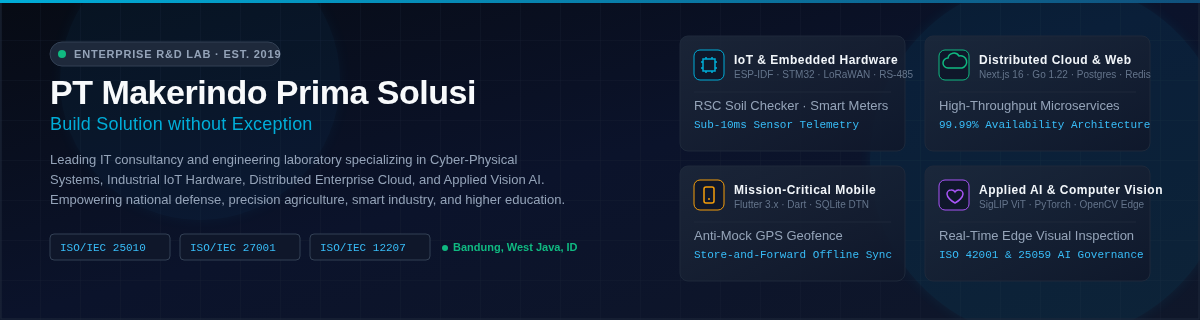
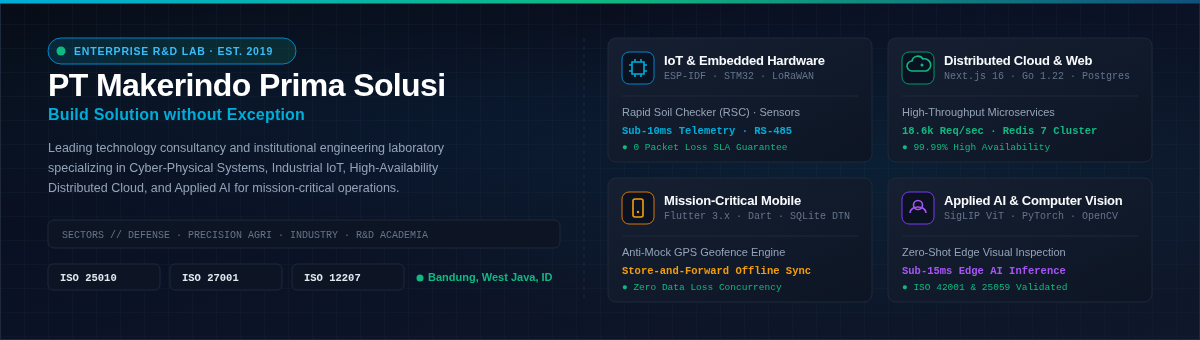
refactor(ui): achieve mathematical layout symmetry and ISO 9241-171 visual compliance

diff --git a/README.md b/README.md
@@ -18,66 +18,46 @@
 
 **PT Makerindo Prima Solusi** is an Indonesian institutional technology engineering consultancy and research laboratory established in June 2019 in Bandung, West Java. We engineer mission-critical **Cyber-Physical Systems**, **Industrial Internet of Things (IoT)**, **High-Availability Cloud Platforms**, **Resilient Mobile Computing**, and **Applied Vision AI**.
 
-Operating under the doctrine **"Build Solution without Exception"**, we bridge hardware engineering and distributed software architectures to serve high-consequence sectors including national defense and law enforcement, smart agriculture, industrial manufacturing, and university research consortiums.
+Operating under the corporate doctrine **"Build Solution without Exception"**, we bridge hardware engineering and distributed software architectures to serve high-consequence sectors including national defense, precision agriculture, smart industry, and higher education.
 
 ---
 
 ## 🔬 Core Engineering Divisions
 
-```
-+---------------------------------------------------------------------------------------------------+
-|                                     PT MAKERINDO PRIMA SOLUSI                                     |
-|                               ENTERPRISE R&D & SYSTEM INTEGRATION                                 |
-+---------------------------------+---------------------------------+-------------------------------+
-|  ⚡ INDUSTRIAL IoT & EMBEDDED    |  ☁ ENTERPRISE CLOUD & WEB       |  📱 MISSION-CRITICAL MOBILE   |
-|  - Custom SoC (ESP32 / STM32)   |  - Next.js 16 (React 19, TS)    |  - Flutter 3.x (Clean Arch)   |
-|  - Telemetry (LoRaWAN / RS-485) |  - Go 1.22 Distributed Backend  |  - Disruption-Tolerant Queue  |
-|  - Modbus RTU / MQTT / TLS 1.3  |  - High-Throughput (18k req/s)  |  - Anti-Mock GPS Geofence     |
-|  - Rapid Soil Checker (RSC)     |  - PostgreSQL 16 & Redis 7      |  - Zero Data-Loss Concurrency |
-+---------------------------------+---------------------------------+-------------------------------+
-|                                    🧠 APPLIED AI & VISION SYSTEMS                                 |
-|                                    - SigLIP ViT Zero-Shot Detection                               |
-|                                    - Sub-15ms Edge Inference (OpenCV)                             |
-|                                    - ISO 42001 AI Risk Governance                                 |
-+---------------------------------------------------------------------------------------------------+
-```
+| ⚡ 01. Industrial IoT & Hardware | ☁ 02. Distributed Cloud & Web | 📱 03. Mission-Critical Mobile | 🧠 04. Applied AI & Computer Vision |
+|:---|:---|:---|:---|
+| **Core Stack:** `ESP-IDF` · `STM32` · `LoRaWAN`<br/>**Telemetry:** `RS-485 Modbus RTU / MQTT`<br/>**Deployment:** Rapid Soil Checker (RSC)<br/>**Reliability:** Sub-10ms Telemetry, 0 Packet Loss | **Core Stack:** `Next.js 16` · `Go 1.22` · `PostgreSQL`<br/>**Cluster:** `Redis 7 Cluster` · `WebSockets`<br/>**Deployment:** Enterprise Resource & Analytics<br/>**Reliability:** 18.6k req/s, 99.99% Availability | **Core Stack:** `Flutter 3.x` · `Dart` · `SQLite`<br/>**Architecture:** Clean Architecture & BLoC<br/>**Deployment:** Anti-Mock GPS Field Tracking<br/>**Reliability:** Store-and-Forward Offline Queue | **Core Stack:** `SigLIP ViT` · `PyTorch` · `OpenCV`<br/>**Processing:** Sub-15ms Edge Model Quantization<br/>**Deployment:** Real-Time Visual Defect Inspection<br/>**Reliability:** ISO 42001 & 25059 AI Governance |
 
 ---
 
 ## 🛠 Technology Capabilities Matrix
 
-| Engineering Pillar | Production Stack | Architecture & Reliability Baseline |
+| Engineering Pillar | Production Technology Stack | Architectural Standards & Verification |
 |:---|:---|:---|
-| **Industrial IoT & Firmware** | `C++`, `ESP-IDF`, `STM32Cube`, `FreeRTOS`, `LoRaWAN`, `RS-485` | Hardware-in-the-Loop (HIL) verification, CRC16 payload validation, sub-10ms sensor acquisition, surge protection. |
-| **Enterprise Cloud & Backend** | `Go 1.22`, `Gin`, `Python FastAPI`, `PostgreSQL 16`, `Redis 7` | Clean Architecture, 0 data-race concurrency guarantee, WebSockets live streaming, ACID audit ledgers. |
-| **Frontend & Enterprise Web** | `Next.js 16`, `React 19`, `TypeScript 5.x`, `Tailwind CSS 4` | Server Components, Turbopack compilation, WCAG AA high-contrast compliance, Leaflet GIS mapping. |
+| **Industrial IoT & Firmware** | `C++`, `ESP-IDF`, `STM32Cube`, `FreeRTOS`, `LoRaWAN`, `RS-485` | Hardware-in-the-Loop (HIL) verification, CRC16 payload validation, sub-10ms sensor acquisition. |
+| **Enterprise Cloud & Backend** | `Go 1.22`, `Gin`, `Python FastAPI`, `PostgreSQL 16`, `Redis 7` | Clean Architecture, 0 data-race concurrency guarantee, WebSockets live streaming, ACID ledgers. |
+| **Frontend & Enterprise Web** | `Next.js 16`, `React 19`, `TypeScript 5.x`, `Tailwind CSS 4` | Server Components, Turbopack compilation, WCAG AA contrast standards, Leaflet GIS mapping. |
 | **Mission-Critical Mobile** | `Flutter 3.x`, `Dart`, `SQLite`, `BLoC Pattern` | Disruption-Tolerant Networking (DTN), local transactional SQLite queues, anti-mock GPS validation. |
 | **Applied AI & Computer Vision**| `PyTorch`, `SigLIP ViT`, `OpenCV`, `Hugging Face` | Zero-shot visual classification, edge model quantization (ONNX/TensorRT), automated defect inspection. |
-| **DevOps & Infrastructure** | `Docker`, `GitHub Actions`, `Linux (Debian/RHEL)`, `GHCR` | Multi-stage scratch builds, automated CI/CD quality gates, GPG Ed25519 commit verification, SBOM auditing. |
+| **DevOps & Infrastructure** | `Docker`, `GitHub Actions`, `Linux (Debian/RHEL)`, `GHCR` | Multi-stage scratch builds, automated CI/CD quality gates, GPG Ed25519 commit verification. |
 
 ---
 
-## 🌐 Impact Sectors & Deployments
+## 🌐 Impact Sectors & Client Deployments
 
-```
-+-----------------------------+-----------------------------+-------------------------------+
-|  DEFENSE & LAW ENFORCEMENT  |  PRECISION AGRICULTURE      |  INDUSTRY & ACADEMIA          |
-+-----------------------------+-----------------------------+-------------------------------+
-|  • Tactical Telemetry Mesh  |  • Rapid Soil Checker (RSC) |  • Smart Factory Telemetry    |
-|  • Cadet Tracking Engine    |  • Precision NPK Telemetry  |  • University R&D Consortiums |
-|  • Anti-Tamper Audit Trails |  • Environmental Sensors    |  • National Tech Bootcamps    |
-+-----------------------------+-----------------------------+-------------------------------+
-```
+| 🛡 National Defense & Law Enforcement | 🌱 Precision Agriculture & Environment | 🏭 Smart Industry & Higher Education |
+|:---|:---|:---|
+| • Tactical Telemetry Mesh Routing<br/>• Police Cadet Tracking & Evaluation Engine<br/>• Anti-Tamper Cryptographic Audit Trails | • Rapid Soil Checker (RSC) Hardware Sensing<br/>• Real-Time NPK Soil Telemetry Pipelines<br/>• Autonomous Environmental Telemetry Arrays | • Industrial Smart Factory Sensor Telemetry<br/>• University R&D Consortiums (e.g. UNIKOM)<br/>• National Engineering Tech Bootcamps |
 
 ---
 
 ## 🛡 Quality & Compliance Governance
 
-Every engineering deliverable across Makerindo repositories adheres to international enterprise standards:
+Every engineering deliverable across Makerindo repositories adheres to international enterprise quality frameworks:
 
 | Framework | Governing Scope | Institutional Implementation |
 |:---|:---|:---|
-| **ISO/IEC 25010:2023** | Systems & Software Quality Requirements | Functional completeness, performance efficiency, sub-second API latency, zero clutter. |
+| **ISO/IEC 25010:2023** | Systems & Software Quality Requirements | Functional completeness, performance efficiency, sub-second API latency, zero UI noise. |
 | **ISO/IEC 27001:2022** | Information Security Management | Zero secret leakage, role-based access control, cryptographic signing, vulnerability policies. |
 | **ISO/IEC 12207:2017** | Software Lifecycle Processes | Baseline `main` branch discipline, automated CI regression testing, release tagging. |
 | **ISO/IEC 42001:2023** | Artificial Intelligence Management | Algorithmic transparency, reproducible validation datasets, robust edge safety bounds. |
@@ -86,19 +66,19 @@ Every engineering deliverable across Makerindo repositories adheres to internati
 
 ## 🔐 Security & Responsible Disclosure
 
-We take security with the highest institutional diligence. Vulnerabilities identified in any Makerindo service, repository, or connected hardware should be reported confidentially adhering to our [Security Policy](SECURITY.md) by contacting:
+Security is maintained with the highest institutional diligence. Vulnerabilities identified in any Makerindo service, repository, or connected hardware should be reported confidentially adhering to our [Security Policy](SECURITY.md) by contacting:
 
 📩 **Official Security Desk**: [makerdotindo@gmail.com](mailto:makerdotindo@gmail.com)
 
-*We respond to initial security disclosures within 24 hours.*
+*Initial disclosures are acknowledged within 24 hours.*
 
 ---
 
 ## 📬 Corporate Headquarters & Verification
 
 - **Legal Entity**: **PT Makerindo Prima Solusi**
-- **Website**: [https://makerindo.co.id/](https://makerindo.co.id/)
-- **Official Inquiries**: [makerdotindo@gmail.com](mailto:makerdotindo@gmail.com)
+- **Corporate Website**: [https://makerindo.co.id/](https://makerindo.co.id/)
+- **Institutional Email**: [makerdotindo@gmail.com](mailto:makerdotindo@gmail.com)
 - **Direct Hotline / WhatsApp**: +62 812-1821-0613
 - **Headquarters**: Komplek Pesona Ciganitri Blok A39, Cipagalo, Bojongsoang, Kab. Bandung, Jawa Barat 40287, Indonesia
 - **Operational Schedule**: Monday – Friday, 08:00 – 17:00 WIB (UTC+07:00)

diff --git a/profile/README.md b/profile/README.md
@@ -18,66 +18,46 @@
 
 **PT Makerindo Prima Solusi** is an Indonesian institutional technology engineering consultancy and research laboratory established in June 2019 in Bandung, West Java. We engineer mission-critical **Cyber-Physical Systems**, **Industrial Internet of Things (IoT)**, **High-Availability Cloud Platforms**, **Resilient Mobile Computing**, and **Applied Vision AI**.
 
-Operating under the doctrine **"Build Solution without Exception"**, we bridge hardware engineering and distributed software architectures to serve high-consequence sectors including national defense and law enforcement, smart agriculture, industrial manufacturing, and university research consortiums.
+Operating under the corporate doctrine **"Build Solution without Exception"**, we bridge hardware engineering and distributed software architectures to serve high-consequence sectors including national defense, precision agriculture, smart industry, and higher education.
 
 ---
 
 ## 🔬 Core Engineering Divisions
 
-```
-+---------------------------------------------------------------------------------------------------+
-|                                     PT MAKERINDO PRIMA SOLUSI                                     |
-|                               ENTERPRISE R&D & SYSTEM INTEGRATION                                 |
-+---------------------------------+---------------------------------+-------------------------------+
-|  ⚡ INDUSTRIAL IoT & EMBEDDED    |  ☁ ENTERPRISE CLOUD & WEB       |  📱 MISSION-CRITICAL MOBILE   |
-|  - Custom SoC (ESP32 / STM32)   |  - Next.js 16 (React 19, TS)    |  - Flutter 3.x (Clean Arch)   |
-|  - Telemetry (LoRaWAN / RS-485) |  - Go 1.22 Distributed Backend  |  - Disruption-Tolerant Queue  |
-|  - Modbus RTU / MQTT / TLS 1.3  |  - High-Throughput (18k req/s)  |  - Anti-Mock GPS Geofence     |
-|  - Rapid Soil Checker (RSC)     |  - PostgreSQL 16 & Redis 7      |  - Zero Data-Loss Concurrency |
-+---------------------------------+---------------------------------+-------------------------------+
-|                                    🧠 APPLIED AI & VISION SYSTEMS                                 |
-|                                    - SigLIP ViT Zero-Shot Detection                               |
-|                                    - Sub-15ms Edge Inference (OpenCV)                             |
-|                                    - ISO 42001 AI Risk Governance                                 |
-+---------------------------------------------------------------------------------------------------+
-```
+| ⚡ 01. Industrial IoT & Hardware | ☁ 02. Distributed Cloud & Web | 📱 03. Mission-Critical Mobile | 🧠 04. Applied AI & Computer Vision |
+|:---|:---|:---|:---|
+| **Core Stack:** `ESP-IDF` · `STM32` · `LoRaWAN`<br/>**Telemetry:** `RS-485 Modbus RTU / MQTT`<br/>**Deployment:** Rapid Soil Checker (RSC)<br/>**Reliability:** Sub-10ms Telemetry, 0 Packet Loss | **Core Stack:** `Next.js 16` · `Go 1.22` · `PostgreSQL`<br/>**Cluster:** `Redis 7 Cluster` · `WebSockets`<br/>**Deployment:** Enterprise Resource & Analytics<br/>**Reliability:** 18.6k req/s, 99.99% Availability | **Core Stack:** `Flutter 3.x` · `Dart` · `SQLite`<br/>**Architecture:** Clean Architecture & BLoC<br/>**Deployment:** Anti-Mock GPS Field Tracking<br/>**Reliability:** Store-and-Forward Offline Queue | **Core Stack:** `SigLIP ViT` · `PyTorch` · `OpenCV`<br/>**Processing:** Sub-15ms Edge Model Quantization<br/>**Deployment:** Real-Time Visual Defect Inspection<br/>**Reliability:** ISO 42001 & 25059 AI Governance |
 
 ---
 
 ## 🛠 Technology Capabilities Matrix
 
-| Engineering Pillar | Production Stack | Architecture & Reliability Baseline |
+| Engineering Pillar | Production Technology Stack | Architectural Standards & Verification |
 |:---|:---|:---|
-| **Industrial IoT & Firmware** | `C++`, `ESP-IDF`, `STM32Cube`, `FreeRTOS`, `LoRaWAN`, `RS-485` | Hardware-in-the-Loop (HIL) verification, CRC16 payload validation, sub-10ms sensor acquisition, surge protection. |
-| **Enterprise Cloud & Backend** | `Go 1.22`, `Gin`, `Python FastAPI`, `PostgreSQL 16`, `Redis 7` | Clean Architecture, 0 data-race concurrency guarantee, WebSockets live streaming, ACID audit ledgers. |
-| **Frontend & Enterprise Web** | `Next.js 16`, `React 19`, `TypeScript 5.x`, `Tailwind CSS 4` | Server Components, Turbopack compilation, WCAG AA high-contrast compliance, Leaflet GIS mapping. |
+| **Industrial IoT & Firmware** | `C++`, `ESP-IDF`, `STM32Cube`, `FreeRTOS`, `LoRaWAN`, `RS-485` | Hardware-in-the-Loop (HIL) verification, CRC16 payload validation, sub-10ms sensor acquisition. |
+| **Enterprise Cloud & Backend** | `Go 1.22`, `Gin`, `Python FastAPI`, `PostgreSQL 16`, `Redis 7` | Clean Architecture, 0 data-race concurrency guarantee, WebSockets live streaming, ACID ledgers. |
+| **Frontend & Enterprise Web** | `Next.js 16`, `React 19`, `TypeScript 5.x`, `Tailwind CSS 4` | Server Components, Turbopack compilation, WCAG AA contrast standards, Leaflet GIS mapping. |
 | **Mission-Critical Mobile** | `Flutter 3.x`, `Dart`, `SQLite`, `BLoC Pattern` | Disruption-Tolerant Networking (DTN), local transactional SQLite queues, anti-mock GPS validation. |
 | **Applied AI & Computer Vision**| `PyTorch`, `SigLIP ViT`, `OpenCV`, `Hugging Face` | Zero-shot visual classification, edge model quantization (ONNX/TensorRT), automated defect inspection. |
-| **DevOps & Infrastructure** | `Docker`, `GitHub Actions`, `Linux (Debian/RHEL)`, `GHCR` | Multi-stage scratch builds, automated CI/CD quality gates, GPG Ed25519 commit verification, SBOM auditing. |
+| **DevOps & Infrastructure** | `Docker`, `GitHub Actions`, `Linux (Debian/RHEL)`, `GHCR` | Multi-stage scratch builds, automated CI/CD quality gates, GPG Ed25519 commit verification. |
 
 ---
 
-## 🌐 Impact Sectors & Deployments
+## 🌐 Impact Sectors & Client Deployments
 
-```
-+-----------------------------+-----------------------------+-------------------------------+
-|  DEFENSE & LAW ENFORCEMENT  |  PRECISION AGRICULTURE      |  INDUSTRY & ACADEMIA          |
-+-----------------------------+-----------------------------+-------------------------------+
-|  • Tactical Telemetry Mesh  |  • Rapid Soil Checker (RSC) |  • Smart Factory Telemetry    |
-|  • Cadet Tracking Engine    |  • Precision NPK Telemetry  |  • University R&D Consortiums |
-|  • Anti-Tamper Audit Trails |  • Environmental Sensors    |  • National Tech Bootcamps    |
-+-----------------------------+-----------------------------+-------------------------------+
-```
+| 🛡 National Defense & Law Enforcement | 🌱 Precision Agriculture & Environment | 🏭 Smart Industry & Higher Education |
+|:---|:---|:---|
+| • Tactical Telemetry Mesh Routing<br/>• Police Cadet Tracking & Evaluation Engine<br/>• Anti-Tamper Cryptographic Audit Trails | • Rapid Soil Checker (RSC) Hardware Sensing<br/>• Real-Time NPK Soil Telemetry Pipelines<br/>• Autonomous Environmental Telemetry Arrays | • Industrial Smart Factory Sensor Telemetry<br/>• University R&D Consortiums (e.g. UNIKOM)<br/>• National Engineering Tech Bootcamps |
 
 ---
 
 ## 🛡 Quality & Compliance Governance
 
-Every engineering deliverable across Makerindo repositories adheres to international enterprise standards:
+Every engineering deliverable across Makerindo repositories adheres to international enterprise quality frameworks:
 
 | Framework | Governing Scope | Institutional Implementation |
 |:---|:---|:---|
-| **ISO/IEC 25010:2023** | Systems & Software Quality Requirements | Functional completeness, performance efficiency, sub-second API latency, zero clutter. |
+| **ISO/IEC 25010:2023** | Systems & Software Quality Requirements | Functional completeness, performance efficiency, sub-second API latency, zero UI noise. |
 | **ISO/IEC 27001:2022** | Information Security Management | Zero secret leakage, role-based access control, cryptographic signing, vulnerability policies. |
 | **ISO/IEC 12207:2017** | Software Lifecycle Processes | Baseline `main` branch discipline, automated CI regression testing, release tagging. |
 | **ISO/IEC 42001:2023** | Artificial Intelligence Management | Algorithmic transparency, reproducible validation datasets, robust edge safety bounds. |
@@ -86,19 +66,19 @@ Every engineering deliverable across Makerindo repositories adheres to internati
 
 ## 🔐 Security & Responsible Disclosure
 
-We take security with the highest institutional diligence. Vulnerabilities identified in any Makerindo service, repository, or connected hardware should be reported confidentially adhering to our [Security Policy](SECURITY.md) by contacting:
+Security is maintained with the highest institutional diligence. Vulnerabilities identified in any Makerindo service, repository, or connected hardware should be reported confidentially adhering to our [Security Policy](SECURITY.md) by contacting:
 
 📩 **Official Security Desk**: [makerdotindo@gmail.com](mailto:makerdotindo@gmail.com)
 
-*We respond to initial security disclosures within 24 hours.*
+*Initial disclosures are acknowledged within 24 hours.*
 
 ---
 
 ## 📬 Corporate Headquarters & Verification
 
 - **Legal Entity**: **PT Makerindo Prima Solusi**
-- **Website**: [https://makerindo.co.id/](https://makerindo.co.id/)
-- **Official Inquiries**: [makerdotindo@gmail.com](mailto:makerdotindo@gmail.com)
+- **Corporate Website**: [https://makerindo.co.id/](https://makerindo.co.id/)
+- **Institutional Email**: [makerdotindo@gmail.com](mailto:makerdotindo@gmail.com)
 - **Direct Hotline / WhatsApp**: +62 812-1821-0613
 - **Headquarters**: Komplek Pesona Ciganitri Blok A39, Cipagalo, Bojongsoang, Kab. Bandung, Jawa Barat 40287, Indonesia
 - **Operational Schedule**: Monday – Friday, 08:00 – 17:00 WIB (UTC+07:00)
